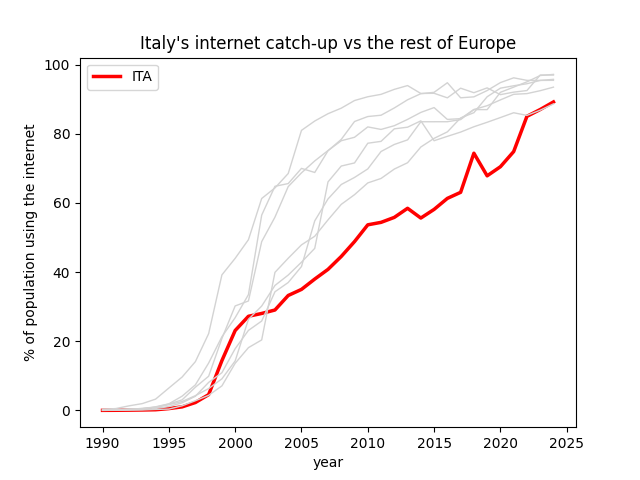
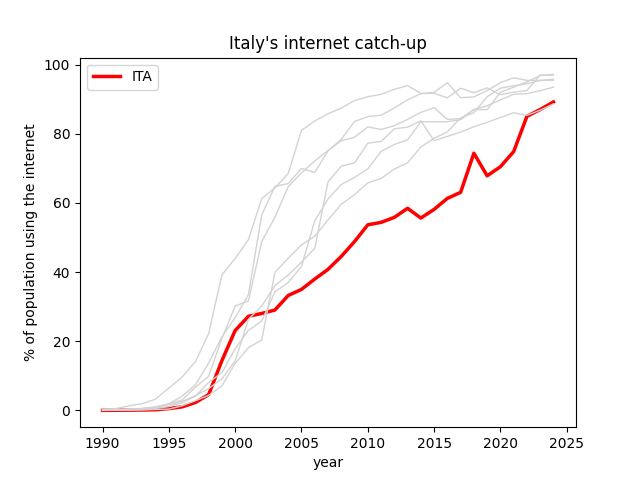
Add high-tech exports vs R&D analysis

Changed region(s): [[0.2188, 0.0625, 0.8125, 0.125]]

diff --git a/analyze.py b/analyze.py
@@ -31,11 +31,32 @@ def analyze_italy():
             plt.plot(subset["year"], subset["value"], color="lightgrey", linewidth=1)
 
     plt.legend()
-    plt.title("Italy's internet catch-up vs the rest of Europe")
+    plt.title("Italy's internet catch-up")
     plt.xlabel("year")
     plt.ylabel("% of population using the internet")
     plt.savefig("outputs/italy_internet.png")
     plt.show()
 
+def analyze_tech():
+    plt.figure()
+    conn = sq.connect("data/data.db")
+
+    rnd = pd.read_sql_query("select country, value from indicators where indicator = 'GB.XPD.RSDV.GD.ZS' and year = 2020", conn)
+    tech = pd.read_sql_query("select country, value from indicators where indicator = 'TX.VAL.TECH.MF.ZS' and year = 2020", conn)
+    conn.close()
+
+    merged = rnd.merge(tech, on="country", suffixes=("_rnd", "_tech"))
+
+    plt.scatter(merged["value_rnd"], merged["value_tech"])
+    for country, x, y in zip(merged["country"], merged["value_rnd"], merged["value_tech"]):
+        plt.annotate(country, (x, y))
+
+    plt.title("High-tech exports vs R&D spending (2020)")
+    plt.xlabel("R&D expenditure (% of GDP)")
+    plt.ylabel("High-tech exports (% of manufactured exports)")
+    plt.savefig("outputs/tech_vs_rnd.png")
+    plt.show()
+
 analyze()
 analyze_italy()
+analyze_tech()

diff --git a/README.md b/README.md
@@ -40,6 +40,10 @@ The Netherlands and the United Kingdom adopted the internet earlier, while Italy
 
 Highlighting Italy against the rest makes the catch-up clear:  it went through a steep climb in the 2000s and 2010s, and joined the pack near the top by the 2020s
 
+![High-tech exports vs R&D spending](outputs/tech_vs_rnd.png)
+
+R&D spending does not cleanly predict high-tech exports. The lowest spenders (Italy, Spain) are also lowest on high-tech output, but the relationship breaks at the top and the reason lies in what each country is specialized: Germany, for example, has a strong car and machinery industry and spends heavily on R&D, but that output is classified as mid-tech, so it doesn't affect the high-tech export share
+
 ## How to run
 
 The database is generated when you run the pipeline and is not committed to the repository